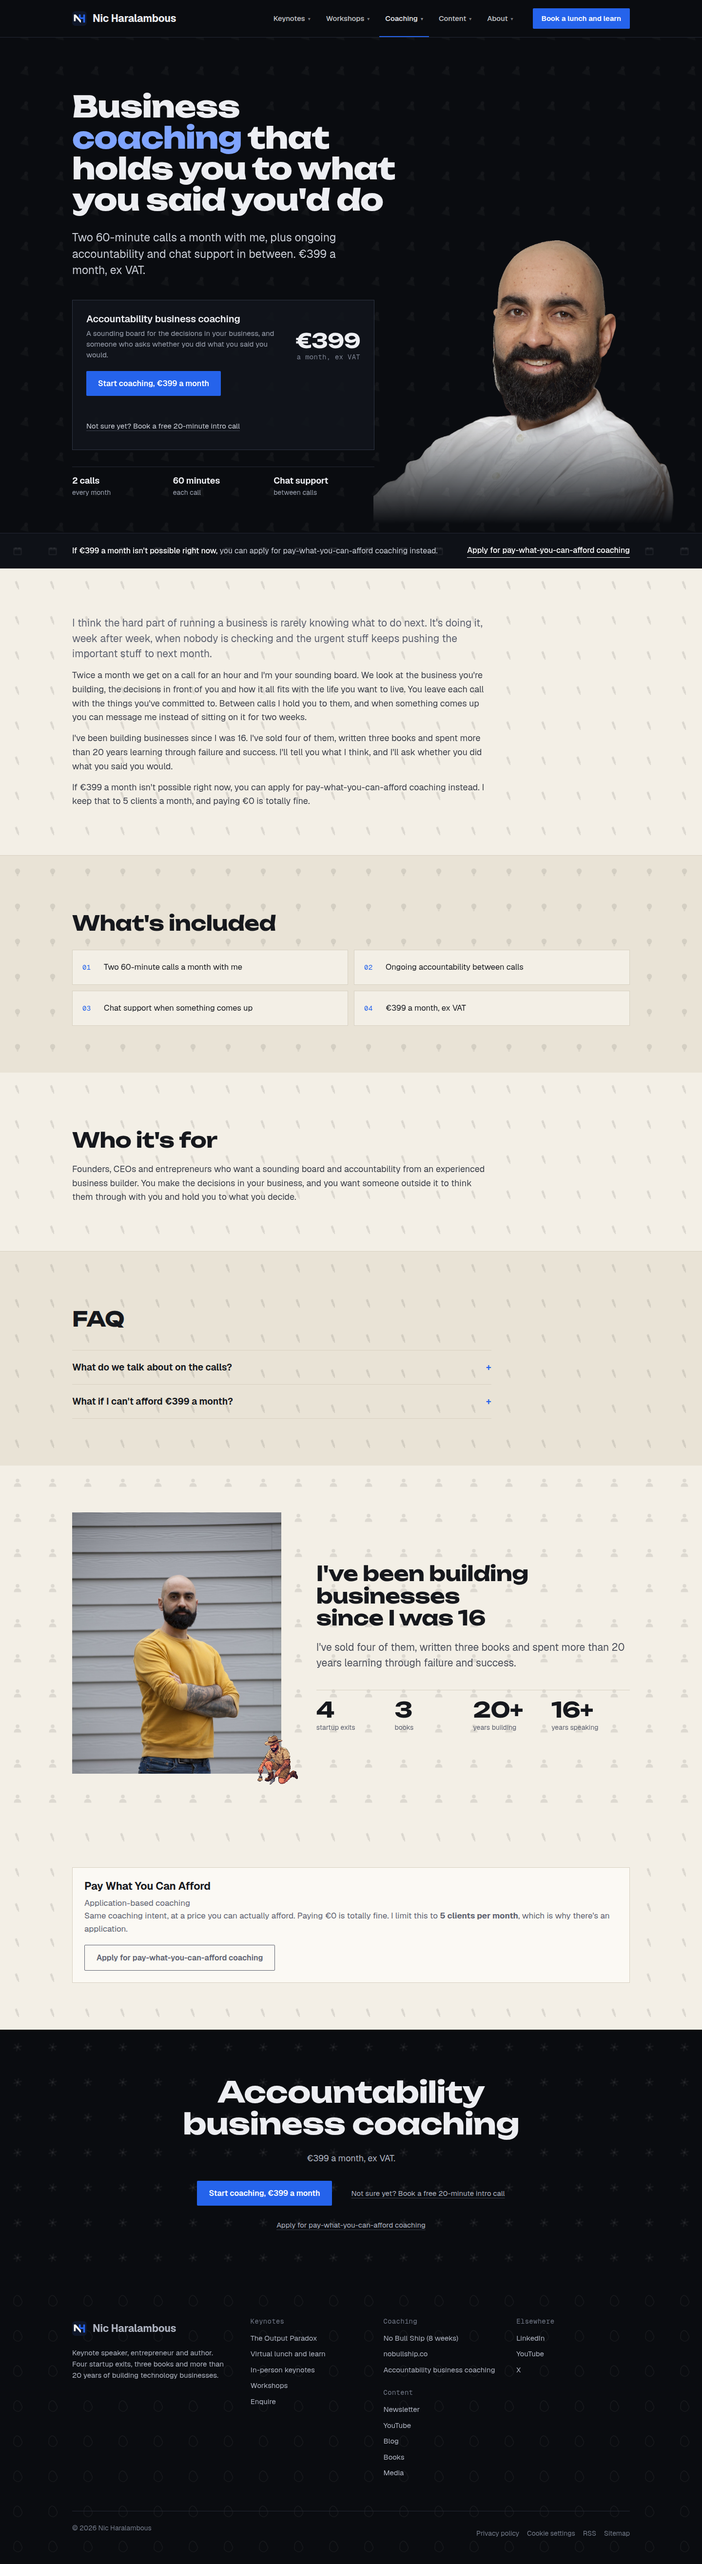
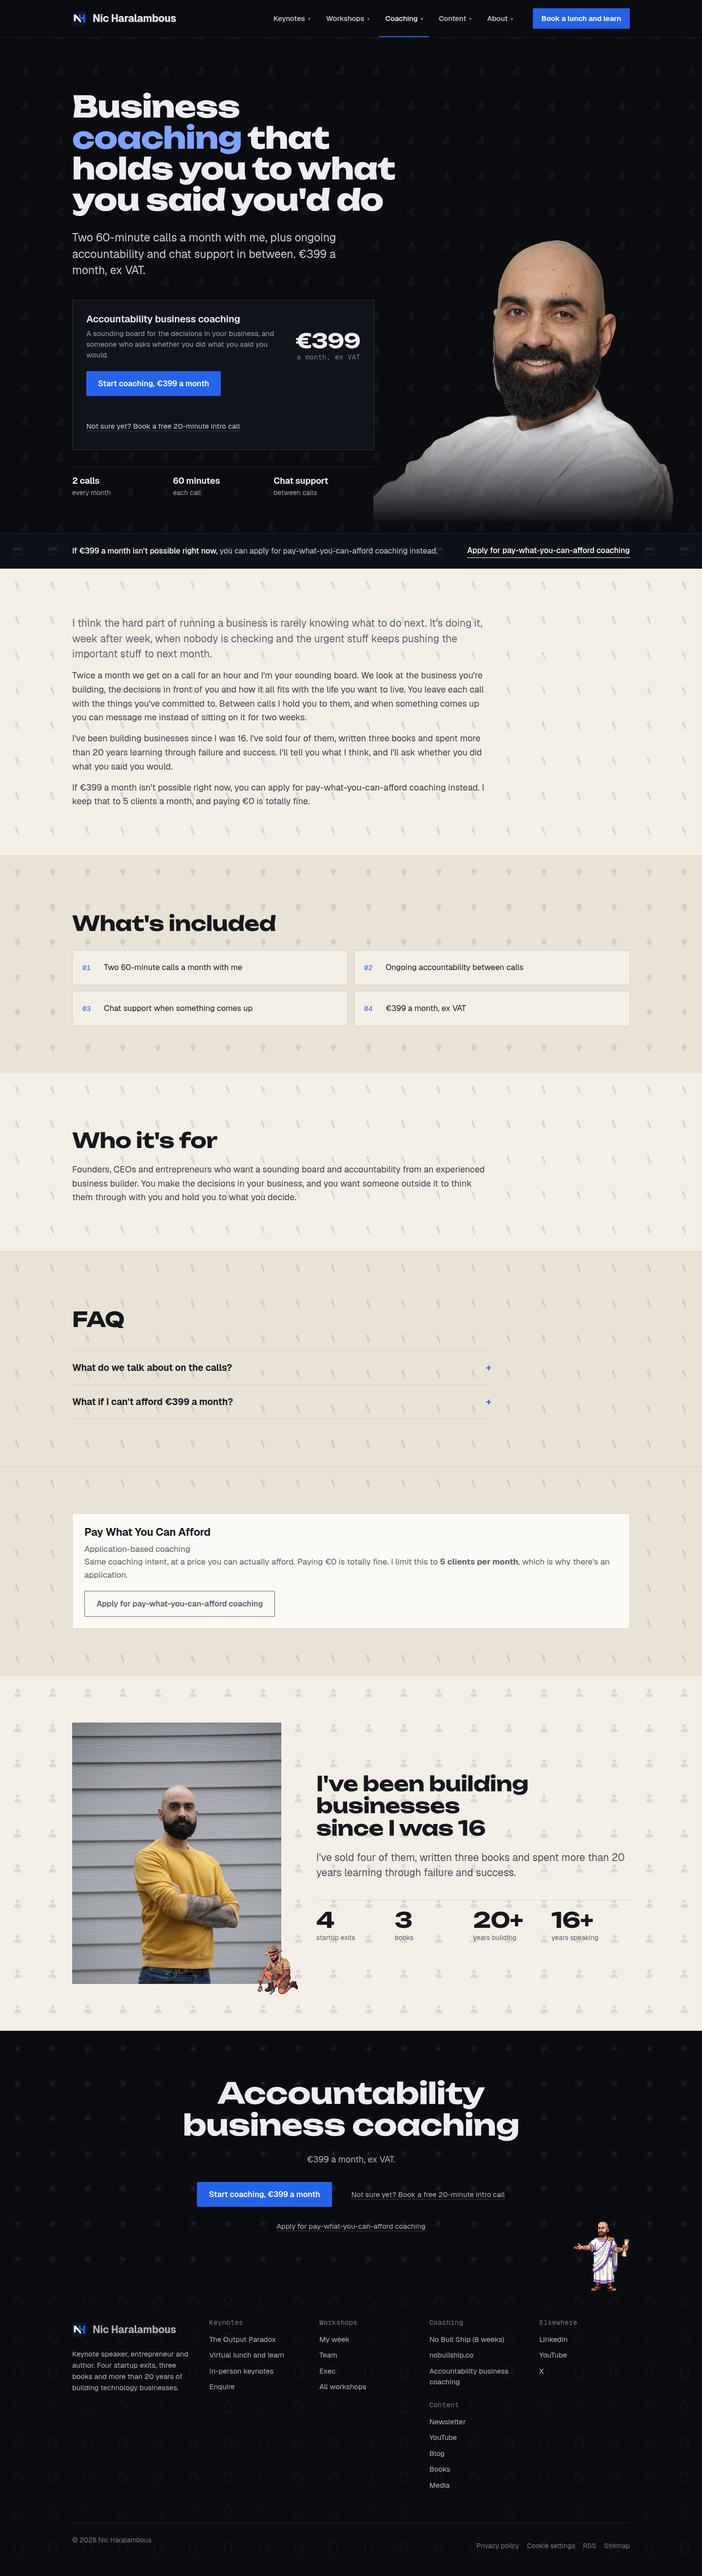
Match the last mockup pass on cards, Exec, coaching, and the footer.
Restore the homepage pixel-art size, turn the card actions into arrow links, and give Workshops its own footer column.

diff --git a/app/workshops/executive-workflow-upgrade/page.tsx b/app/workshops/executive-workflow-upgrade/page.tsx
@@ -52,7 +52,7 @@ export default function ExecutiveWorkshopPage() {
                   <small>one to one, ex VAT</small>
                 </div>
               </div>
-              <div className="acts">
+              <div className="acts side">
                 <CheckoutButton id="buy-executive-workflow-upgrade" offer="executive-workflow-upgrade" label="Buy your executive session" />
                 <IntroCallLink />
               </div>
@@ -166,6 +166,11 @@ export default function ExecutiveWorkshopPage() {
             <div className="fmt">
               <h3>My week with Grok Bot</h3>
               <p>A show-and-tell of my own setup, for up to 20 people.</p>
+              <ul>
+                <li>90 minutes</li>
+                <li>Up to 20 people, one organisation</li>
+                <li>Virtual by default</li>
+              </ul>
               <div className="price">
                 €2,999<span>per session, ex VAT</span>
               </div>
@@ -177,6 +182,11 @@ export default function ExecutiveWorkshopPage() {
             <div className="fmt">
               <h3>Team Workflow Upgrade Session</h3>
               <p>Up to 8 senior leaders build their own workflows.</p>
+              <ul>
+                <li>2 hours, hands-on</li>
+                <li>Up to 8 senior leaders from one company</li>
+                <li>€499 per extra seat, up to 10</li>
+              </ul>
               <div className="price">
                 €4,999<span>per session, up to 8 people, ex VAT</span>
               </div>
@@ -188,6 +198,11 @@ export default function ExecutiveWorkshopPage() {
             <div className="fmt lead1">
               <h3>Executive Workflow Upgrade Session</h3>
               <p>For the CEO: introduction, review and an upgrade.</p>
+              <ul>
+                <li>2 hours</li>
+                <li>One to one</li>
+                <li>Virtual by default</li>
+              </ul>
               <div className="price">
                 €1,499<span>one to one, ex VAT</span>
               </div>
@@ -200,6 +215,7 @@ export default function ExecutiveWorkshopPage() {
         <div className="wrap bio">
           <div className="pic">
             <img src="/v3/new/bio-exec-07.jpg" alt="Nic Haralambous, portrait" width={1000} height={1250} />
+            <img className="px pxb" src="/v3/px/Nic_archeo_16bit.png" alt="" width={182} height={220} />
           </div>
           <div>
             <h2 style={{ margin: "20px 0 22px" }}>I&apos;ve been building businesses since I was 16</h2>
@@ -230,6 +246,7 @@ export default function ExecutiveWorkshopPage() {
       <section className="dark pd-cta">
         <div className="wrap">
           <div className="final op">
+            <img className="px pxf op" src="/v3/px/Nic_Hunting_Pickaxe.png" alt="" width={170} height={288} />
             <h2>Executive Workflow Upgrade Session</h2>
             <p className="final-sub">2 hours, one to one, €1,499, ex VAT.</p>
             <div className="acts" style={{ justifyContent: "center", marginTop: 32 }}>

diff --git a/app/page.tsx b/app/page.tsx
@@ -160,7 +160,7 @@ export default async function HomePage() {
                 <li>In-person keynotes from €4,500, ex VAT, travel extra</li>
               </ul>
               <div className="card-links">
-              <CheckoutButton id="buy-lunch-and-learn-speak" offer="lunch-and-learn" label="Buy the lunch and learn" />
+              <CheckoutButton id="buy-lunch-and-learn-speak" offer="lunch-and-learn" label="Buy the lunch and learn" variant="link" />
               <a className="go" href="/keynotes/output-paradox-reengage-teams">
                 See the Output Paradox <span>→</span>
               </a>
@@ -176,7 +176,7 @@ export default async function HomePage() {
                 <li>Virtual by default</li>
               </ul>
               <div className="card-links">
-                <CheckoutButton id="buy-my-week-with-grok-bot-home" offer="my-week-with-grok-bot" label="Buy My week with Grok Bot" />
+                <CheckoutButton id="buy-my-week-with-grok-bot-home" offer="my-week-with-grok-bot" label="Buy My week with Grok Bot" variant="link" />
                 <a className="session-link" href="/workshops/my-week-with-grok-bot">See the session</a>
               </div>
             </div>
@@ -190,7 +190,7 @@ export default async function HomePage() {
                 <li>€499 per extra seat, up to 10</li>
               </ul>
               <div className="card-links">
-                <CheckoutButton id="buy-team-workflow-upgrade-home" offer="team-workflow-upgrade" label="Buy the team session" />
+                <CheckoutButton id="buy-team-workflow-upgrade-home" offer="team-workflow-upgrade" label="Buy the team session" variant="link" />
                 <a className="session-link" href="/workshops/team-workflow-upgrade">See the session</a>
               </div>
             </div>
@@ -204,7 +204,7 @@ export default async function HomePage() {
                 <li>Virtual by default</li>
               </ul>
               <div className="card-links">
-                <CheckoutButton id="buy-executive-workflow-upgrade-home" offer="executive-workflow-upgrade" label="Buy your session" />
+                <CheckoutButton id="buy-executive-workflow-upgrade-home" offer="executive-workflow-upgrade" label="Buy your session" variant="link" />
                 <a className="session-link" href="/workshops/executive-workflow-upgrade">See the session</a>
               </div>
             </div>
@@ -224,6 +224,7 @@ export default async function HomePage() {
                   id="buy-accountability-coaching-home"
                   offer="accountability-coaching"
                   label="Start coaching, €399 a month"
+                  variant="link"
                 />
                 <a className="session-link" href="/coaching">See coaching</a>
               </div>

diff --git a/app/coaching/page.tsx b/app/coaching/page.tsx
@@ -148,6 +148,22 @@ export default function CoachingPage() {
           </div>
         </div>
       </section>
+      <section className="p-pen" id="pwyca" style={{ background: "var(--paper2)", borderTop: "1px solid #D8D1C2" }}>
+        <div className="wrap">
+          <article className="plain-card">
+            <h2 style={{ fontSize: 22 }}>Pay What You Can Afford</h2>
+            <p>Application-based coaching</p>
+            <p>
+              Same coaching intent, at a price you can actually afford. Paying €0 is totally fine. I limit this to <b>5 clients per month</b>, which is why there&apos;s an application.
+            </p>
+            <p style={{ marginTop: 20 }}>
+              <a className="btn ghost" href="/coaching/apply">
+                Apply for pay-what-you-can-afford coaching
+              </a>
+            </p>
+          </article>
+        </div>
+      </section>
       <section className="p-person">
         <div className="wrap bio">
           <div className="pic">
@@ -180,25 +196,10 @@ export default function CoachingPage() {
           </div>
         </div>
       </section>
-      <section className="p-pen" id="pwyca">
-        <div className="wrap">
-          <article className="plain-card">
-            <h2 style={{ fontSize: 22 }}>Pay What You Can Afford</h2>
-            <p>Application-based coaching</p>
-            <p>
-              Same coaching intent, at a price you can actually afford. Paying €0 is totally fine. I limit this to <b>5 clients per month</b>, which is why there&apos;s an application.
-            </p>
-            <p style={{ marginTop: 20 }}>
-              <a className="btn ghost" href="/coaching/apply">
-                Apply for pay-what-you-can-afford coaching
-              </a>
-            </p>
-          </article>
-        </div>
-      </section>
       <section className="dark pd-cta">
         <div className="wrap">
           <div className="final op">
+            <img className="px pxf op" src="/v3/px/Nic_Ancient_greece_16bit.png" alt="" width={226} height={280} />
             <h2>Accountability business coaching</h2>
             <p className="final-sub">€399 a month, ex VAT.</p>
             <div className="acts" style={{ justifyContent: "center", marginTop: 32 }}>

diff --git a/app/v3.css b/app/v3.css
@@ -580,7 +580,7 @@ em.hl {
 
 .site-footer .cols {
   display: grid;
-  grid-template-columns: 1.4fr 1fr 1fr 1fr;
+  grid-template-columns: 1.3fr repeat(4, minmax(0, 1fr));
   gap: 40px;
 }
 
@@ -2411,19 +2411,19 @@ html[data-nh-consent] .consent {
 }
 
 @media (min-width: 1101px) {
-  .v3 .pl {
+  .v3 .pillars:not(.six) .pl {
     padding: 24px 16px;
     min-height: 0;
   }
 
-  .v3 .pl h3 {
+  .v3 .pillars:not(.six) .pl h3 {
     font-size: 22px;
     padding-right: 52px;
   }
 
-  .v3 .pl .pxi,
-  .v3 .pl .pxi.s,
-  .v3 .pl .pxi.k {
+  .v3 .pillars:not(.six) .pl .pxi,
+  .v3 .pillars:not(.six) .pl .pxi.s,
+  .v3 .pillars:not(.six) .pl .pxi.k {
     height: 56px;
     top: 16px;
     right: 12px;
@@ -3765,5 +3765,9 @@ html.fullshot .sticky-book{display:none!important}
 .v3 .pillars.six .pl.coach,.v3 .pillars.six .pl.gb{border-color:#d8d1c2;box-shadow:none}
 @media (max-width:700px){.v3 .pillars.six .pl h3{min-height:92px}}
 .v3 .p-pen .quiet-link,.v3 .next-list .quiet-link{color:var(--text)}
+@media (min-width:391px){
+  .v3 .book .acts.side{flex-direction:row;flex-wrap:nowrap;align-items:center}
+  .v3 .book .acts.side .btn{width:auto}
+}
 .v3.has-sticky section:not(.hero){padding:96px 0}
 @media (max-width:700px){.v3.has-sticky section:not(.hero){padding:56px 0}}

diff --git a/components/site/site-footer.tsx b/components/site/site-footer.tsx
@@ -28,10 +28,24 @@ export function SiteFooter() {
                 <a href={`${OUTPUT_PARADOX_PATH}#formats`}>In-person keynotes</a>
               </li>
               <li>
-                <a href="/workshops">Workshops</a>
+                <a href="/contact">Enquire</a>
+              </li>
+            </ul>
+          </div>
+          <div>
+            <h2>Workshops</h2>
+            <ul>
+              <li>
+                <a href="/workshops/my-week-with-grok-bot">My week</a>
               </li>
               <li>
-                <a href="/contact">Enquire</a>
+                <a href="/workshops/team-workflow-upgrade">Team</a>
+              </li>
+              <li>
+                <a href="/workshops/executive-workflow-upgrade">Exec</a>
+              </li>
+              <li>
+                <a href="/workshops">All workshops</a>
               </li>
             </ul>
           </div>

diff --git a/components/site/checkout-cta.tsx b/components/site/checkout-cta.tsx
@@ -5,12 +5,21 @@ export function CheckoutButton({
   id,
   offer,
   label,
+  variant = "button",
 }: {
   id: string;
   offer: CheckoutOffer;
   label: string;
+  variant?: "button" | "link";
 }) {
   const href = checkoutHref(offer) || "#checkout";
+  if (variant === "link") {
+    return (
+      <a id={id} className="go buy" data-offer={offer} href={href}>
+        {label} <span>→</span>
+      </a>
+    );
+  }
   return (
     <a id={id} className="btn btn-wrap" data-offer={offer} href={href}>
       {label}
